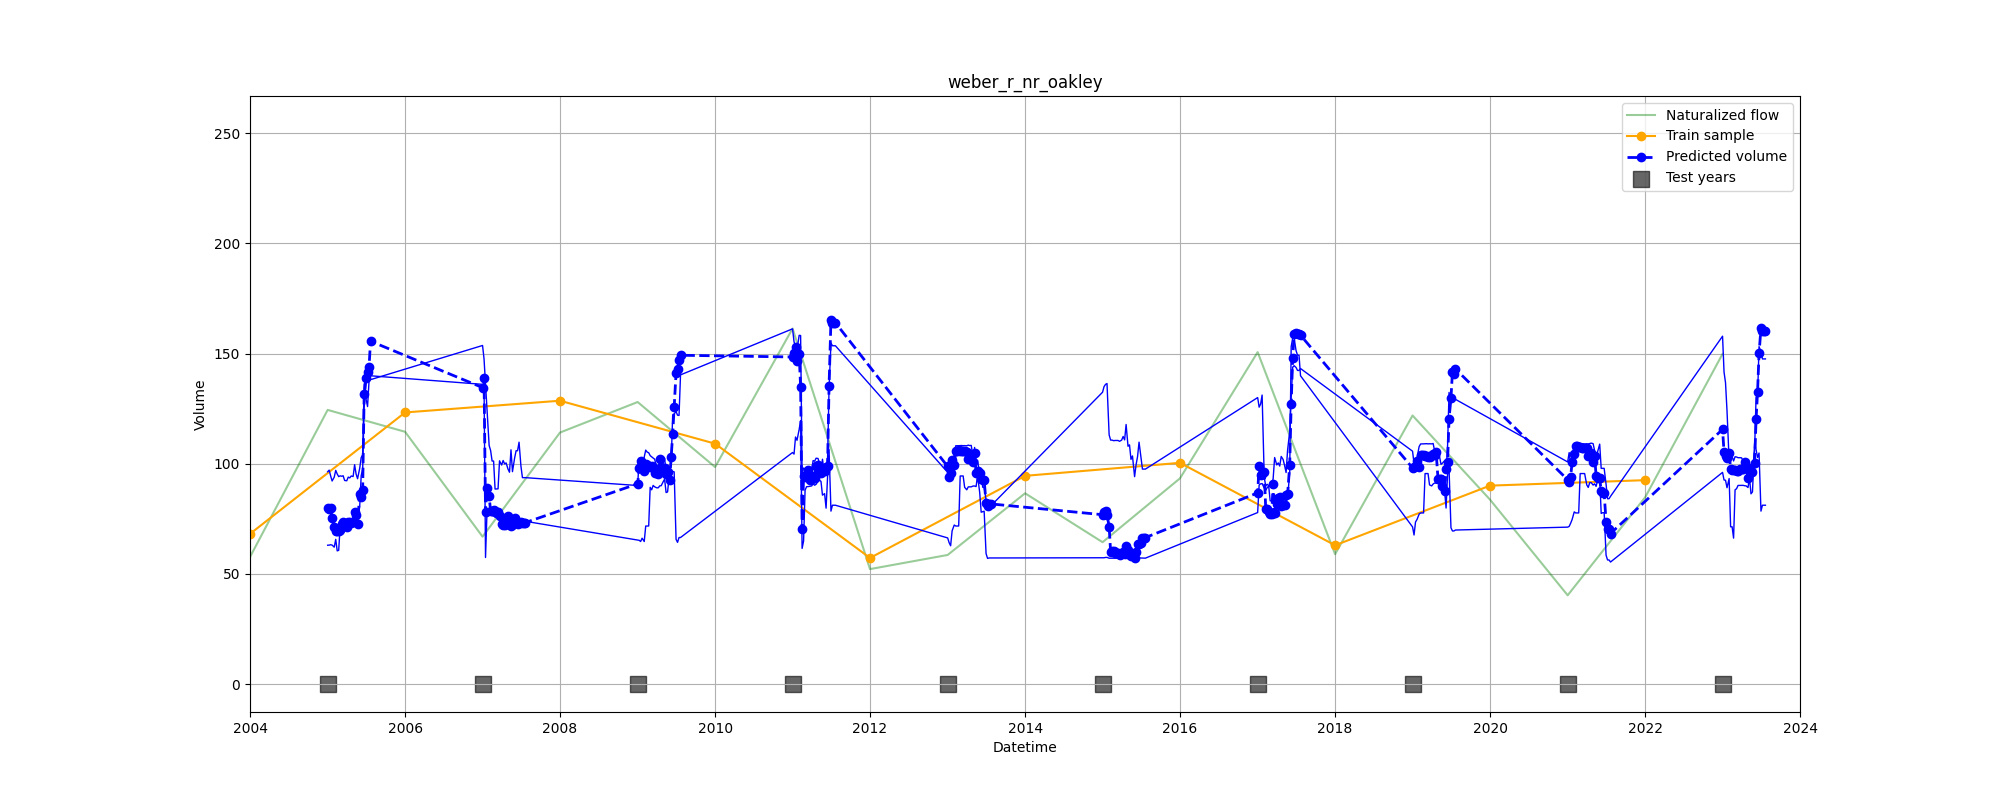
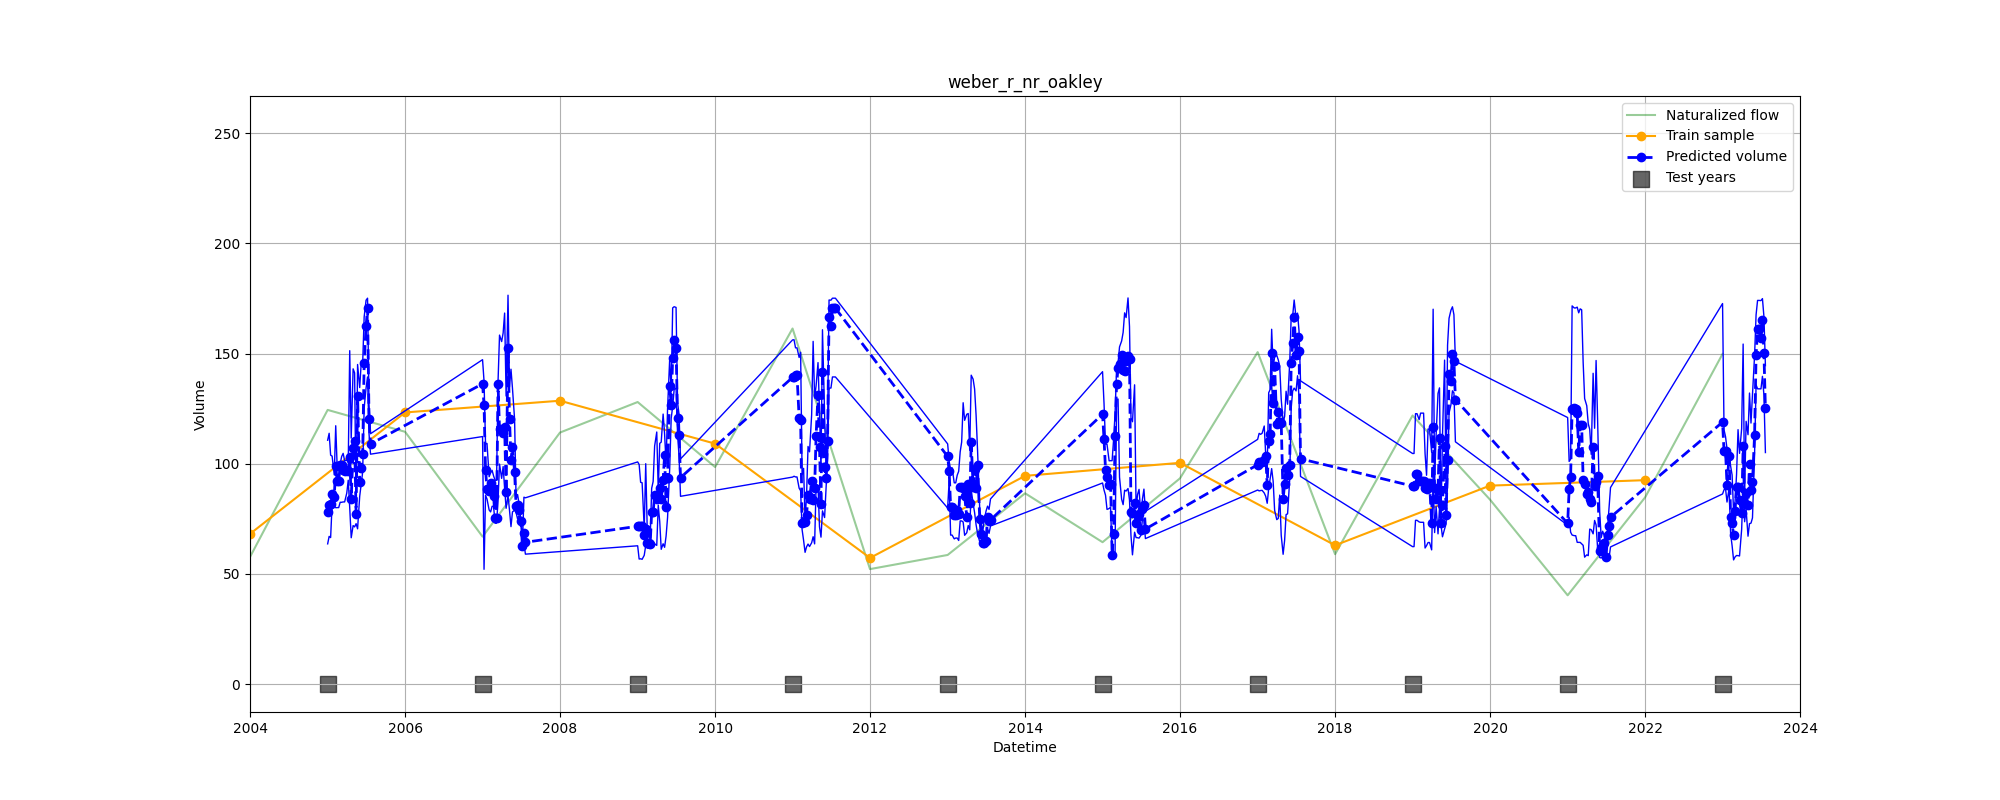
usgs finished

Changed region(s): [[0.155, 0.375, 0.899, 0.7188]]

diff --git a/wasu/development/models/common.py b/wasu/development/models/common.py
@@ -321,35 +321,7 @@ class CommonRegression(TrainModel):
                                                       path_to_snotel, path_to_teleconnections, path_to_pdsi)
 
             # Correct according to train data (predictions can not be higher or lower)
-            site_train_data = self.train_df[self.train_df['site_id'] == site]
-            min_value = min(site_train_data['volume'])
-            max_value = max(site_train_data['volume'])
-            mean_value = site_train_data['volume'].mean()
-
-            submission_site['volume_10'][submission_site['volume_10'] <= min_value] = min_value * 0.8
-            submission_site['volume_10'][submission_site['volume_10'] >= max_value] = min_value * 0.8
-
-            submission_site['volume_50'][submission_site['volume_50'] <= min_value] = mean_value
-            submission_site['volume_50'][submission_site['volume_50'] >= max_value] = mean_value
-
-            submission_site['volume_90'][submission_site['volume_90'] <= min_value] = max_value * 1.2
-            submission_site['volume_90'][submission_site['volume_90'] >= max_value] = max_value * 1.2
-
-            submission_site_updated = []
-            for row_id, row in submission_site.iterrows():
-                # Final forecast adjustment
-                current_min = row.volume_10
-                current_max = row.volume_90
-                current_mean = row.volume_50
-                if current_min > current_max:
-                    row.volume_10 = current_max
-                    row.volume_90 = current_min
-                if current_mean <= row.volume_10 or current_mean >= row.volume_90:
-                    row.volume_50 = (row.volume_10 + row.volume_90) / 2
-                submission_site_updated.append(pd.DataFrame(row).T)
-
-            submission_site_updated = pd.concat(submission_site_updated)
-            submit.append(submission_site_updated)
+            submit.append(self.adjust_forecast(site, submission_site))
 
         submit = pd.concat(submit)
         return submit

diff --git a/wasu/development/models/train_model.py b/wasu/development/models/train_model.py
@@ -53,3 +53,34 @@ class TrainModel:
         submit = submit.drop(columns=['index'])
         submit['issue_date'] = pd.to_datetime(submit['issue_date']).dt.strftime('%Y-%m-%d')
         submit.to_csv(path, index=False)
+
+    def adjust_forecast(self, site: str, submission_site: pd.DataFrame):
+        site_train_data = self.train_df[self.train_df['site_id'] == site]
+        min_value = min(site_train_data['volume'])
+        max_value = max(site_train_data['volume'])
+        mean_value = site_train_data['volume'].mean()
+
+        submission_site['volume_10'][submission_site['volume_10'] <= min_value] = min_value * 0.8
+        submission_site['volume_10'][submission_site['volume_10'] >= max_value] = min_value * 0.8
+
+        submission_site['volume_50'][submission_site['volume_50'] <= min_value] = mean_value
+        submission_site['volume_50'][submission_site['volume_50'] >= max_value] = mean_value
+
+        submission_site['volume_90'][submission_site['volume_90'] <= min_value] = max_value * 1.2
+        submission_site['volume_90'][submission_site['volume_90'] >= max_value] = max_value * 1.2
+
+        submission_site_updated = []
+        for row_id, row in submission_site.iterrows():
+            # Final forecast adjustment
+            current_min = row.volume_10
+            current_max = row.volume_90
+            current_mean = row.volume_50
+            if current_min > current_max:
+                row.volume_10 = current_max
+                row.volume_90 = current_min
+            if current_mean <= row.volume_10 or current_mean >= row.volume_90:
+                row.volume_50 = (row.volume_10 + row.volume_90) / 2
+            submission_site_updated.append(pd.DataFrame(row).T)
+
+        submission_site_updated = pd.concat(submission_site_updated)
+        return submission_site_updated

diff --git a/examples/3_streamflow/predict_based_on_usgs_streamflow_validation.py b/examples/3_streamflow/predict_based_on_usgs_streamflow_validation.py
@@ -19,7 +19,7 @@ def generate_forecast_based_on_streamflow():
     metadata = pd.read_csv(Path('../../data/metadata_TdPVeJC.csv'))
     path_to_streamflow = Path('../../data/usgs_streamflow').resolve()
 
-    model = StreamFlowRegression(train_df=train_df, aggregation_days=200)
+    model = StreamFlowRegression(train_df=train_df, aggregation_days=45)
     predicted = model.predict(submission_format, metadata=metadata, path_to_streamflow=path_to_streamflow, vis=False)
 
     validator.compare_dataframes(predicted, train_df)

diff --git a/examples/3_streamflow/predict_based_on_usgs_streamflow.py b/examples/3_streamflow/predict_based_on_usgs_streamflow.py
@@ -18,7 +18,7 @@ def generate_forecast_based_on_streamflow():
     metadata = pd.read_csv(Path('../../data/metadata_TdPVeJC.csv'))
     path_to_streamflow = Path('../../data/usgs_streamflow').resolve()
 
-    model = StreamFlowRegression(train_df=train_df, aggregation_days=200)
+    model = StreamFlowRegression(train_df=train_df, aggregation_days=45)
     predicted = model.predict(submission_format, metadata=metadata, path_to_streamflow=path_to_streamflow, vis=False)
 
     # Save into file

diff --git a/examples/3_streamflow/train_based_on_usgs.py b/examples/3_streamflow/train_based_on_usgs.py
@@ -18,7 +18,7 @@ def train_streamflow_model():
     metadata = pd.read_csv(Path('../../data/metadata_TdPVeJC.csv'))
     path_to_streamflow = Path('../../data/usgs_streamflow').resolve()
 
-    model = StreamFlowRegression(train_df=train_df, aggregation_days=200)
+    model = StreamFlowRegression(train_df=train_df, aggregation_days=45)
     model.fit(submission_format=submission_format,
               metadata=metadata, path_to_streamflow=path_to_streamflow, vis=False)
 

diff --git a/wasu/development/models/streamflow.py b/wasu/development/models/streamflow.py
@@ -130,7 +130,8 @@ class StreamFlowRegression(TrainModel):
             else:
                 # Generate main model forecast
                 submission_site = self.predict_main_model(site, submission_site, path_to_streamflow)
-            submit.append(submission_site)
+
+            submit.append(self.adjust_forecast(site, submission_site))
 
         submit = pd.concat(submit)
         return submit
